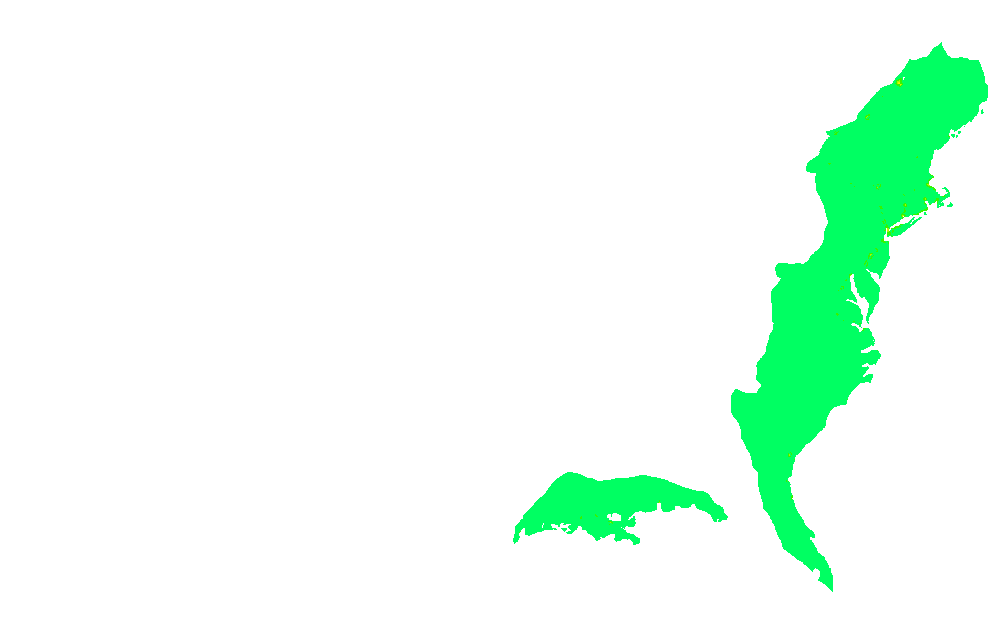
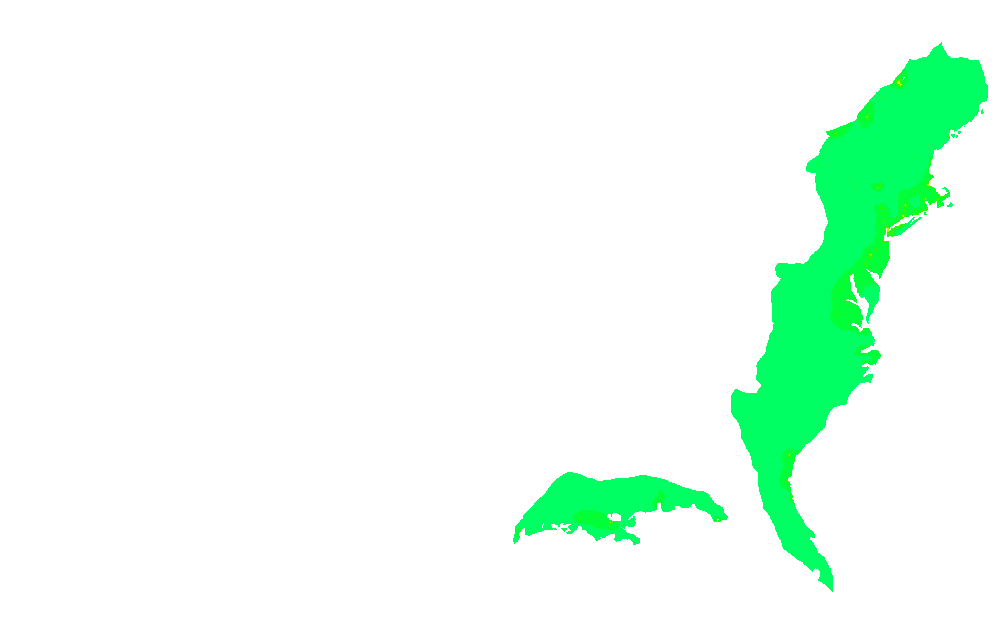
Add Population Tally

diff --git a/src/populate.c b/src/populate.c
@@ -20,8 +20,11 @@
  * @param data The buffer containing the data
  * @return The count of the values of the neighbors
  */
-static inline unsigned short count_neighbor_values(int target_index, int radius, struct DataDims data_dims, struct GhostCols ghost_cols, unsigned short *data) {
+static inline struct Neighborhood count_neighbor_values(int target_index, int radius, struct DataDims data_dims, struct GhostCols ghost_cols, unsigned short *data) {
+    int cells_seen = 0;
     int count = 0;
+    int max_value = 0;
+    int min_value = 65535;
     int col_len = data_dims.col_dim * data_dims.cell_dim;
     int world_len = col_len * data_dims.row_dim;
     // The offset of the given target cell from a cell boundary is maintained in the calculations.
@@ -34,18 +37,30 @@ static inline unsigned short count_neighbor_values(int target_index, int radius,
 
             int neighbor_index = target_index + x_offset + y_offset;
             bool is_y_bounded = pos_in_col + y_offset >= 0 && pos_in_col + y_offset < col_len;
+            int cell_value = 0;
+            if (neighbor_index >= 0 && neighbor_index < world_len && neighbor_index != target_index && is_y_bounded) {
+                cell_value = data[neighbor_index];
+                cells_seen++;
+            }
+            else if (neighbor_index < 0 && is_y_bounded && ghost_cols.west != NULL) {
+                cell_value = ghost_cols.west[pos_in_col + y_offset];
+                cells_seen++;
+            }
+            else if (neighbor_index >= world_len && is_y_bounded && ghost_cols.east != NULL) {
+                cell_value = ghost_cols.east[pos_in_col + y_offset];
+                cells_seen++;
+            }
 
-            if (neighbor_index >= 0 && neighbor_index < world_len && neighbor_index != target_index && is_y_bounded)
-                count += data[neighbor_index];
-            else if (neighbor_index < 0 && is_y_bounded && ghost_cols.west != NULL)
-                count += ghost_cols.west[pos_in_col + y_offset];
-            else if (neighbor_index >= world_len && is_y_bounded && ghost_cols.east != NULL)
-                count += ghost_cols.east[pos_in_col + y_offset];
+            count += cell_value;
+            if (cell_value > max_value) max_value = cell_value;
+            if (cell_value < max_value) max_value = cell_value;
         }
     }
-
     // Ensure the count is within the bounds of an unsigned short
-    return count > 65535 ? 65535 : (unsigned short) count;
+    count = count > 65535 ? 65535 : count;
+
+    struct Neighborhood neighborhood = {count, max_value, count / cells_seen, min_value};
+    return neighborhood;
 }
 
 
@@ -61,6 +76,8 @@ unsigned short calc_cell_population(int target_cell, struct DataDims data_dims, 
     unsigned short biome = data[target_cell+6];
     unsigned short pop = data[target_cell+7];
 
+    const unsigned short MIN_POP = 17;
+
     const int MAX_JITTER = 10000;
     int jitter = rand() % MAX_JITTER;
     float jitter_range = (jitter - MAX_JITTER / 2.0) / MAX_JITTER;
@@ -73,7 +90,7 @@ unsigned short calc_cell_population(int target_cell, struct DataDims data_dims, 
 
     // Value of a cell on a scale of 0-100
     short cell_value = jitter_range * 40;
-    unsigned short nearby_water = count_neighbor_values(target_cell+2, 2, data_dims, ghost_cols, data);
+    unsigned short nearby_water = count_neighbor_values(target_cell+2, 2, data_dims, ghost_cols, data).count;
 
     cell_value += nearby_water > 25 ? 25 : nearby_water;
     cell_value += resources / 2;
@@ -92,67 +109,66 @@ unsigned short calc_cell_population(int target_cell, struct DataDims data_dims, 
 
     // return cell_value * 200;
 
-    unsigned short nearby_population = count_neighbor_values(target_cell+7, 2, data_dims, ghost_cols, data);
+    struct Neighborhood nearby_population = count_neighbor_values(target_cell+7, 2, data_dims, ghost_cols, data);
 
     // ~~~ EXPLORATION PHASE ~~~ //
 
     // If the cell is uninhabited and the cell value is high enough, explore the cell
     if (pop == 0) {
         if (
-            (nearby_population > 0 && cell_value > 50) ||
-            (nearby_population > 40 && cell_value > 40) ||
-            (nearby_population > 70 && cell_value > 30) ||
-            (nearby_population > 100 && cell_value > 20)
+            (nearby_population.count > 0 && cell_value > 50) ||
+            (nearby_population.count > 40 && cell_value > 40) ||
+            (nearby_population.count > 70 && cell_value > 30) ||
+            (nearby_population.count > 100 && cell_value > 20)
         // Randomly fail to explore the cell
-        ) return jitter < 0.9 * MAX_JITTER ? 10 : 0;
+        ) return jitter < 0.05 * MAX_JITTER ? MIN_POP : 0;
 
-        return nearby_population > 0 && jitter < 0.05 * MAX_JITTER ? 10 : 0;
+        return nearby_population.count > 0 && jitter < 0.002 * MAX_JITTER ? MIN_POP : 0;
     }
 
     // ~~~ SETTLEMENT PHASE ~~~ //
 
-    // Get the average population of the neighbors
-    unsigned short avg_neighbor_pop = (nearby_population) / 24;
-
-    // If the cell is explored with no nearby cities
-    if (pop == 10 && avg_neighbor_pop <= 10) {
+    if (pop <= 1.3*MIN_POP && nearby_population.avg <= 1.3*MIN_POP) {
         // Settle new city
-        if (jitter < 3) return 110;
+        if (jitter < 1) return 10 * MIN_POP;
     }
     // If the cell is settled with nearby cities, expand the city with this cell
-    else if (pop == 10 && jitter < cell_value / 1.5) {
-        if (avg_neighbor_pop < 150) return 10 + avg_neighbor_pop / 3;
-        else if (avg_neighbor_pop < 300) return 10 + avg_neighbor_pop / 4;
-        else if (avg_neighbor_pop < 500) return 10 + avg_neighbor_pop / 5;
-        else return 10 + avg_neighbor_pop / 8;
+    else if (pop <= 1.3*MIN_POP && jitter < cell_value / 10) {
+        if (nearby_population.avg < 150) return 10 + nearby_population.avg / 3;
+        else if (nearby_population.avg < 300) return 10 + nearby_population.avg / 4;
+        else if (nearby_population.avg < 500) return 10 + nearby_population.avg / 5;
+        else return 10 + nearby_population.avg / 8;
     }
     // Skip growth if the criteria for an already settled cell are not met
-    if (pop == 10) return 10;
+    if (pop <= 1.3*MIN_POP) return pop;
 
     // ~~~ GROWTH PHASE ~~~ //
 
     // Add a bonus to the cell value based on the average population of the neighbors, scaling with the cell value
-    unsigned short neighbor_bonus = 0.03 * cell_value / 100.0 * avg_neighbor_pop;
+    unsigned short neighbor_bonus = cell_value / 100.0 * nearby_population.avg;
     // Grow the cell by a factor of its population, scaling with the cell value, and add the neighbor bonus
     float neighbor_growth_factor = 0.25;
-    if (avg_neighbor_pop > 1500) neighbor_growth_factor = 0.006;
-    else if (avg_neighbor_pop > 1000) neighbor_growth_factor = 0.002;
-    else if (avg_neighbor_pop > 750) neighbor_growth_factor = 0.08;
-    else if (avg_neighbor_pop > 500) neighbor_growth_factor = 0.17;
+    if (nearby_population.avg > 2500) neighbor_growth_factor = 0.001;
+    if (nearby_population.avg > 1500) neighbor_growth_factor = 0.0015;
+    else if (nearby_population.avg > 1000) neighbor_growth_factor = 0.0012;
+    else if (nearby_population.avg > 750) neighbor_growth_factor = 0.002;
+    else if (nearby_population.avg > 500) neighbor_growth_factor = 0.05;
 
     float city_center_bonus = 1;
-    if (pop * (1+jitter_range*0.5) > avg_neighbor_pop) city_center_bonus = 2.1;
+    if (pop * (1+jitter_range*0.1) >= nearby_population.max && pop > 2 * nearby_population.avg) city_center_bonus = 2.1;
 
-    float growth_factor = city_center_bonus;
-    if (pop > 3500) growth_factor *= 0.07;
-    else if (pop > 2500) growth_factor *= 0.12;
-    else if (pop > 1500) growth_factor *= 0.18;
-    else if (pop > 1000) growth_factor *= 0.2;
-    else if (pop > 750) growth_factor *= 0.22;
-    else if (pop > 500) growth_factor *= 0.3;
+    float growth_factor = 0.18 * city_center_bonus;
+    if (pop > 3500) growth_factor = 0.001 * city_center_bonus;
+    else if (pop > 2500) growth_factor = 0.0005 * city_center_bonus;
+    else if (pop > 1500) growth_factor = 0.0006 * city_center_bonus;
+    else if (pop > 1000) growth_factor = 0.002 * city_center_bonus;
+    else if (pop > 750) growth_factor = 0.0025 * city_center_bonus;
+    else if (pop > 500) growth_factor = 0.0025 * city_center_bonus;
+    else if (pop > 250) growth_factor = 0.003 * city_center_bonus;
+    else if (pop <= 1.3*MIN_POP) growth_factor = 0;
 
     float cell_bonus = cell_value * 1.3;
     if (cell_bonus > 100) cell_bonus = 100;
 
-    return (1 + (cell_bonus / 100.0 * 0.011 * growth_factor)) * pop + neighbor_growth_factor * neighbor_bonus;
+    return (1 + (cell_bonus / 100.0 * growth_factor)) * pop + neighbor_growth_factor * neighbor_bonus;
 }

diff --git a/scripts/visualize_data.py b/scripts/visualize_data.py
@@ -150,11 +150,12 @@ biome_color_map_rev = reverse_map(biome_color_map)
 # NOTE: Each cell is about 9 square miles, so multiply by 9 to get population per cell
 cities_color_map = {
     (0, 0, 0): 0,
-    (0, 255, 98): 10,
-    (53, 244, 0): 100,
-    (168, 244, 0): 500,
-    (219, 244, 0): 1000,
-    (244, 237, 0): 2500,
+    (0, 255, 98): 2,
+    (0, 255, 57): 35,
+    (53, 244, 0): 75,
+    (168, 244, 0): 400,
+    (219, 244, 0): 750,
+    (244, 237, 0): 2000,
     (244, 211, 0): 5000,
     (244, 179, 0): 7500,
     (244, 134, 0): 10000,
@@ -210,35 +211,58 @@ CELL_FEATURES = 8
 Args:
     in_file: The file to read the array from
     out_file: The file to write the image to"""
-def import_array(in_file: str, out_file: str):
+def import_array(in_file: str, out_file: str, resolution_scale=1):
     raw_data = np.fromfile(in_file, dtype=np.ushort)
 
     # Split the raw data into the image data and the dimensions
     dimensions = raw_data[-3:]
     print("Read data of dimensions: ", dimensions)
     image_data = raw_data[:-3]
-    # NOTE: The data may or may not contain information other than the population.
-    # No assumptions are made about the data other than the existence of the population.
     image_data = image_data.reshape(tuple(dimensions))
 
     # Create blank image
     output_img = np.zeros((image_data.shape[1], image_data.shape[0], 4), np.uint8)
 
+    sq_miles_per_cell = 9 / (resolution_scale ** 2)
+
     pbar = tqdm(total=image_data.shape[1] * image_data.shape[0])
-    progress = 0
     for y in range(image_data.shape[1]):
         for x in range(image_data.shape[0]):
 
             # Assign each pixel the best color, based on its population
             alpha = 255 if image_data[x, y][7] != 0 else 0
-            output_img[y, x] = np.asarray(list(get_best_population(image_data[x, y][7])[::-1]) + [alpha])
+            output_img[y, x] = np.asarray(list(get_best_population(math.ceil(image_data[x, y][7] / sq_miles_per_cell))[::-1]) + [alpha])
+
+            pbar.update(1)
+
+    pbar.close()
+
+    cv2.imwrite(out_file, output_img)
+
+
+def tally_array(in_file: str):
+    raw_data = np.fromfile(in_file, dtype=np.ushort)
+
+    # Split the raw data into the image data and the dimensions
+    dimensions = raw_data[-3:]
+    print("Read data of dimensions: ", dimensions)
+    image_data = raw_data[:-3]
+    image_data = image_data.reshape(tuple(dimensions))
+
+    total_population = 0
+
+    pbar = tqdm(total=image_data.shape[1] * image_data.shape[0])
+    progress = 0
+    for y in range(image_data.shape[1]):
+        for x in range(image_data.shape[0]):
+            total_population += image_data[x, y][7]
 
             pbar.update(1)
             progress += 1
 
     pbar.close()
 
-    cv2.imwrite(out_file, output_img)
+    return total_population
 
 
 """Exports an image to an array
@@ -246,7 +270,7 @@ Args:
     city_map: The city map to export
     out_file: The file to write the array to
     resolution_scale: The scale to increase the resolution of the output array"""
-def export_array(city_map: str, out_file: str, resolution_scale = 1):
+def export_array(city_map: str, out_file: str, resolution_scale=1):
     elev_img = cv2.cvtColor(cv2.imread("data/img/usa_topo_iso.png"), cv2.COLOR_BGR2RGB)
     water_img = cv2.cvtColor(cv2.imread("data/img/usa_water_iso.png"), cv2.COLOR_BGR2RGB)
     temp_img = cv2.cvtColor(cv2.imread("data/img/usa_temp_iso.png"), cv2.COLOR_BGR2RGB)
@@ -259,8 +283,9 @@ def export_array(city_map: str, out_file: str, resolution_scale = 1):
     row_dim = elev_img.shape[1]*resolution_scale
     feature_matrix = np.zeros((row_dim, col_dim, CELL_FEATURES))
 
+    sq_miles_per_cell = 9 / (resolution_scale ** 2)
+
     pbar = tqdm(total=elev_img.shape[0]*elev_img.shape[1])
-    progress = 0
     for y in range(elev_img.shape[0]):
         for x in range(elev_img.shape[1]):
 
@@ -291,6 +316,7 @@ def export_array(city_map: str, out_file: str, resolution_scale = 1):
             population = cities_color_map.get(tuple(city_img[y, x]))
             if population is None:
                 raise ValueError(f"Color {city_img[y, x]} not found in city color map @ ({x}, {y})")
+            population *= sq_miles_per_cell
 
             # Calculate the gradient of the current pixel
             gradient = 0
@@ -319,7 +345,6 @@ def export_array(city_map: str, out_file: str, resolution_scale = 1):
                     feature_matrix[scaled_x, scaled_y][7] = population
 
             pbar.update(1)
-            progress += 1
 
     pbar.close()
 
@@ -334,9 +359,9 @@ def export_array(city_map: str, out_file: str, resolution_scale = 1):
 def main():
 
     parser = argparse.ArgumentParser()
-    parser.add_argument("action", choices=["import", "export"], help="Whether to import an array to make an image or export an image into an array")
+    parser.add_argument("action", choices=["import", "export", "tally"], help="Whether to import an array to make an image or export an image into an array")
     parser.add_argument("input", help="The array or city map to import")
-    parser.add_argument("output", help="The array or image to export")
+    parser.add_argument("output", nargs="?", help="The array or image to export")
     parser.add_argument("--resolution_scale", type=int, default=1, help="The scale to increase the resolution of the output array")
     args = parser.parse_args()
 
@@ -346,7 +371,13 @@ def main():
         if args.output is None:
             raise ValueError("Must provide output image to create")
 
-        import_array(args.input, args.output)
+        import_array(args.input, args.output, resolution_scale=args.resolution_scale)
+
+    elif args.action == "tally":
+        if args.input is None:
+            raise ValueError("Must provide input array to tally")
+
+        print("Total population: ", tally_array(args.input))
 
     elif args.action == "export":
         if args.input is None:

diff --git a/include/populate.h b/include/populate.h
@@ -7,6 +7,15 @@
 
 #include "data_rep.h"
 
+
+struct Neighborhood {
+    unsigned short count;
+    unsigned short max;
+    unsigned short avg;
+    unsigned short min;
+};
+
+
 /**
  * Get the new population of a cell based on the values of its neighbors
  * @param target_cell The base (zero) index of the cell to update
